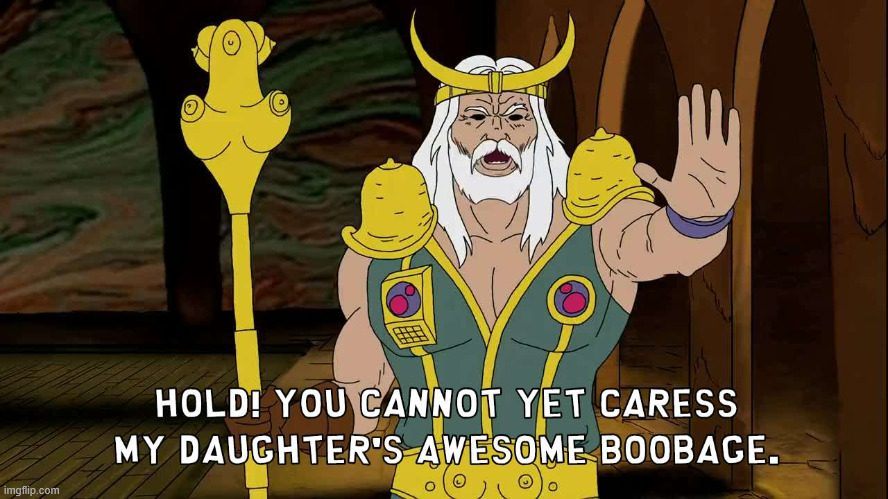
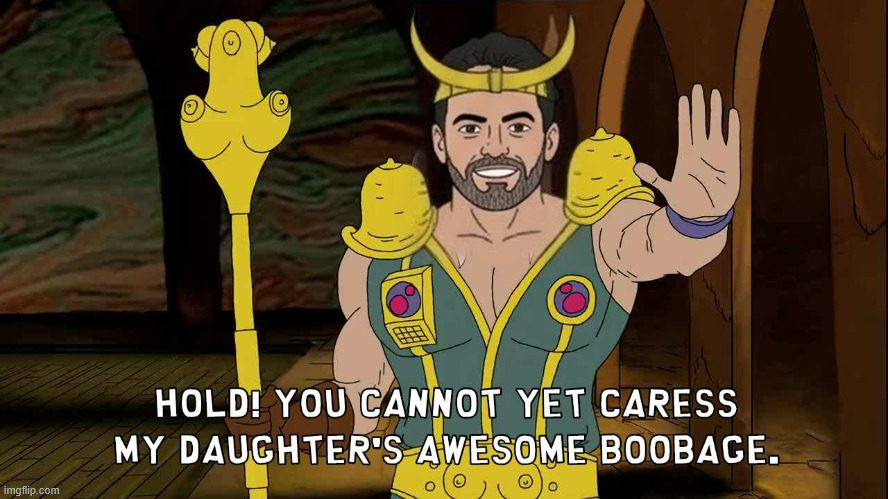
Entry screen: swap the king's face for the owner's new cartoon face
Claude-Session: https://claude.ai/code/session_01XG6PbFopkdiEA1YjEtMtgm

Changed region(s): [[0.4561, 0.0301, 0.6689, 0.5411]]

diff --git a/CLAUDE.md b/CLAUDE.md
@@ -12,7 +12,7 @@ Hosted on GitHub Pages from `christothejames/christothejames.github.io`; the `CN
 - Open any `.html` file in a browser, or run `python3 -m http.server 8000` and visit http://localhost:8000
 
 ## Pages
-- `index.html` – "ENTER THE MANOSPHERE!!" entry screen: the owner's chosen cartoon-king meme (`images/entry-meme.jpg`, full with caption) with a pulsing chrome-blue "ENTER THE MANOSPHERE!!" under the staff head, over the synthwave sky, sunset, light reflections and moving blue grid floor. The ENTER button goes to `home.html`. The meme is a TV still the owner chose to use despite copyright risk; don't swap it without asking.
+- `index.html` – "ENTER THE MANOSPHERE!!" entry screen: the owner's chosen cartoon-king meme with the king's face swapped for the owner's new cartoon face (`images/entry-meme.jpg`, full with caption) with a pulsing chrome-blue "ENTER THE MANOSPHERE!!" under the staff head, over the synthwave sky, sunset, light reflections and moving blue grid floor. The ENTER button goes to `home.html`. The meme is a TV still the owner chose to use despite copyright risk; don't swap it without asking.
 - `home.html` – random hero card (top right of the Wanted board): photo with a slanted red shout banner; each click shows a different hero. Heroes, shouts and photo credits live in `data/heroes.js`, photos in `images/heroes/` (480×480).
 - `home.html` – two poster boards: "WANTED: MORE MEN LIKE HIM" (good) and "NOT WANTED" (bad), with search. Each poster links to a profile.
 - `profile.html?id=<id>` – Facebook-style profile: cover, avatar, status line, intro, dated timeline posts with source links, About and Photos tabs, reactions (saved only in the viewer's browser).
